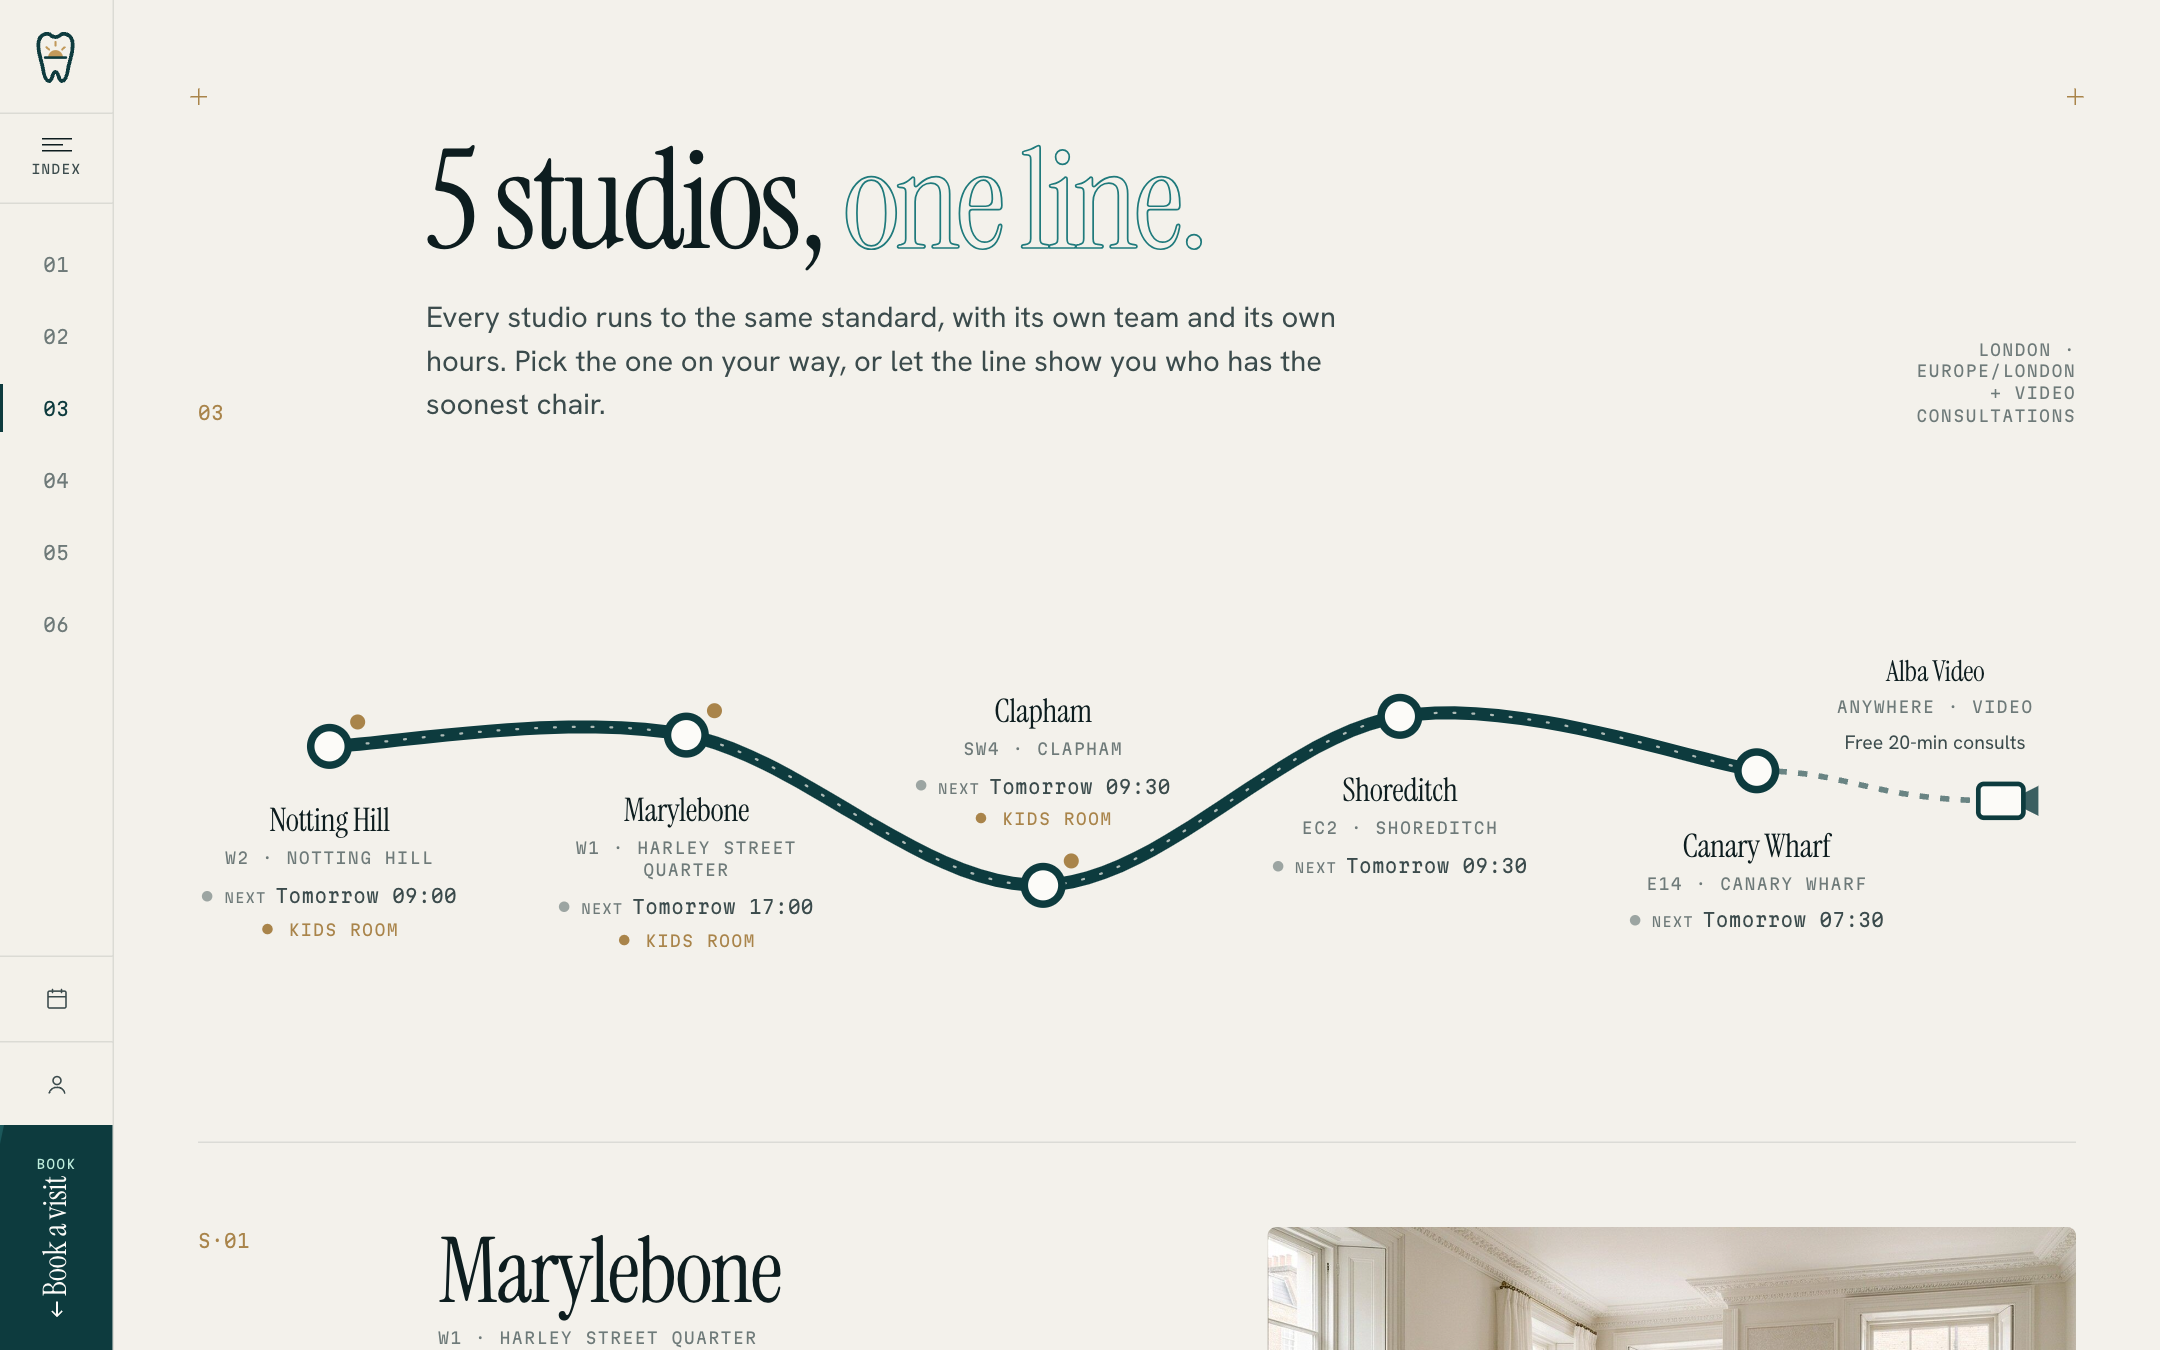
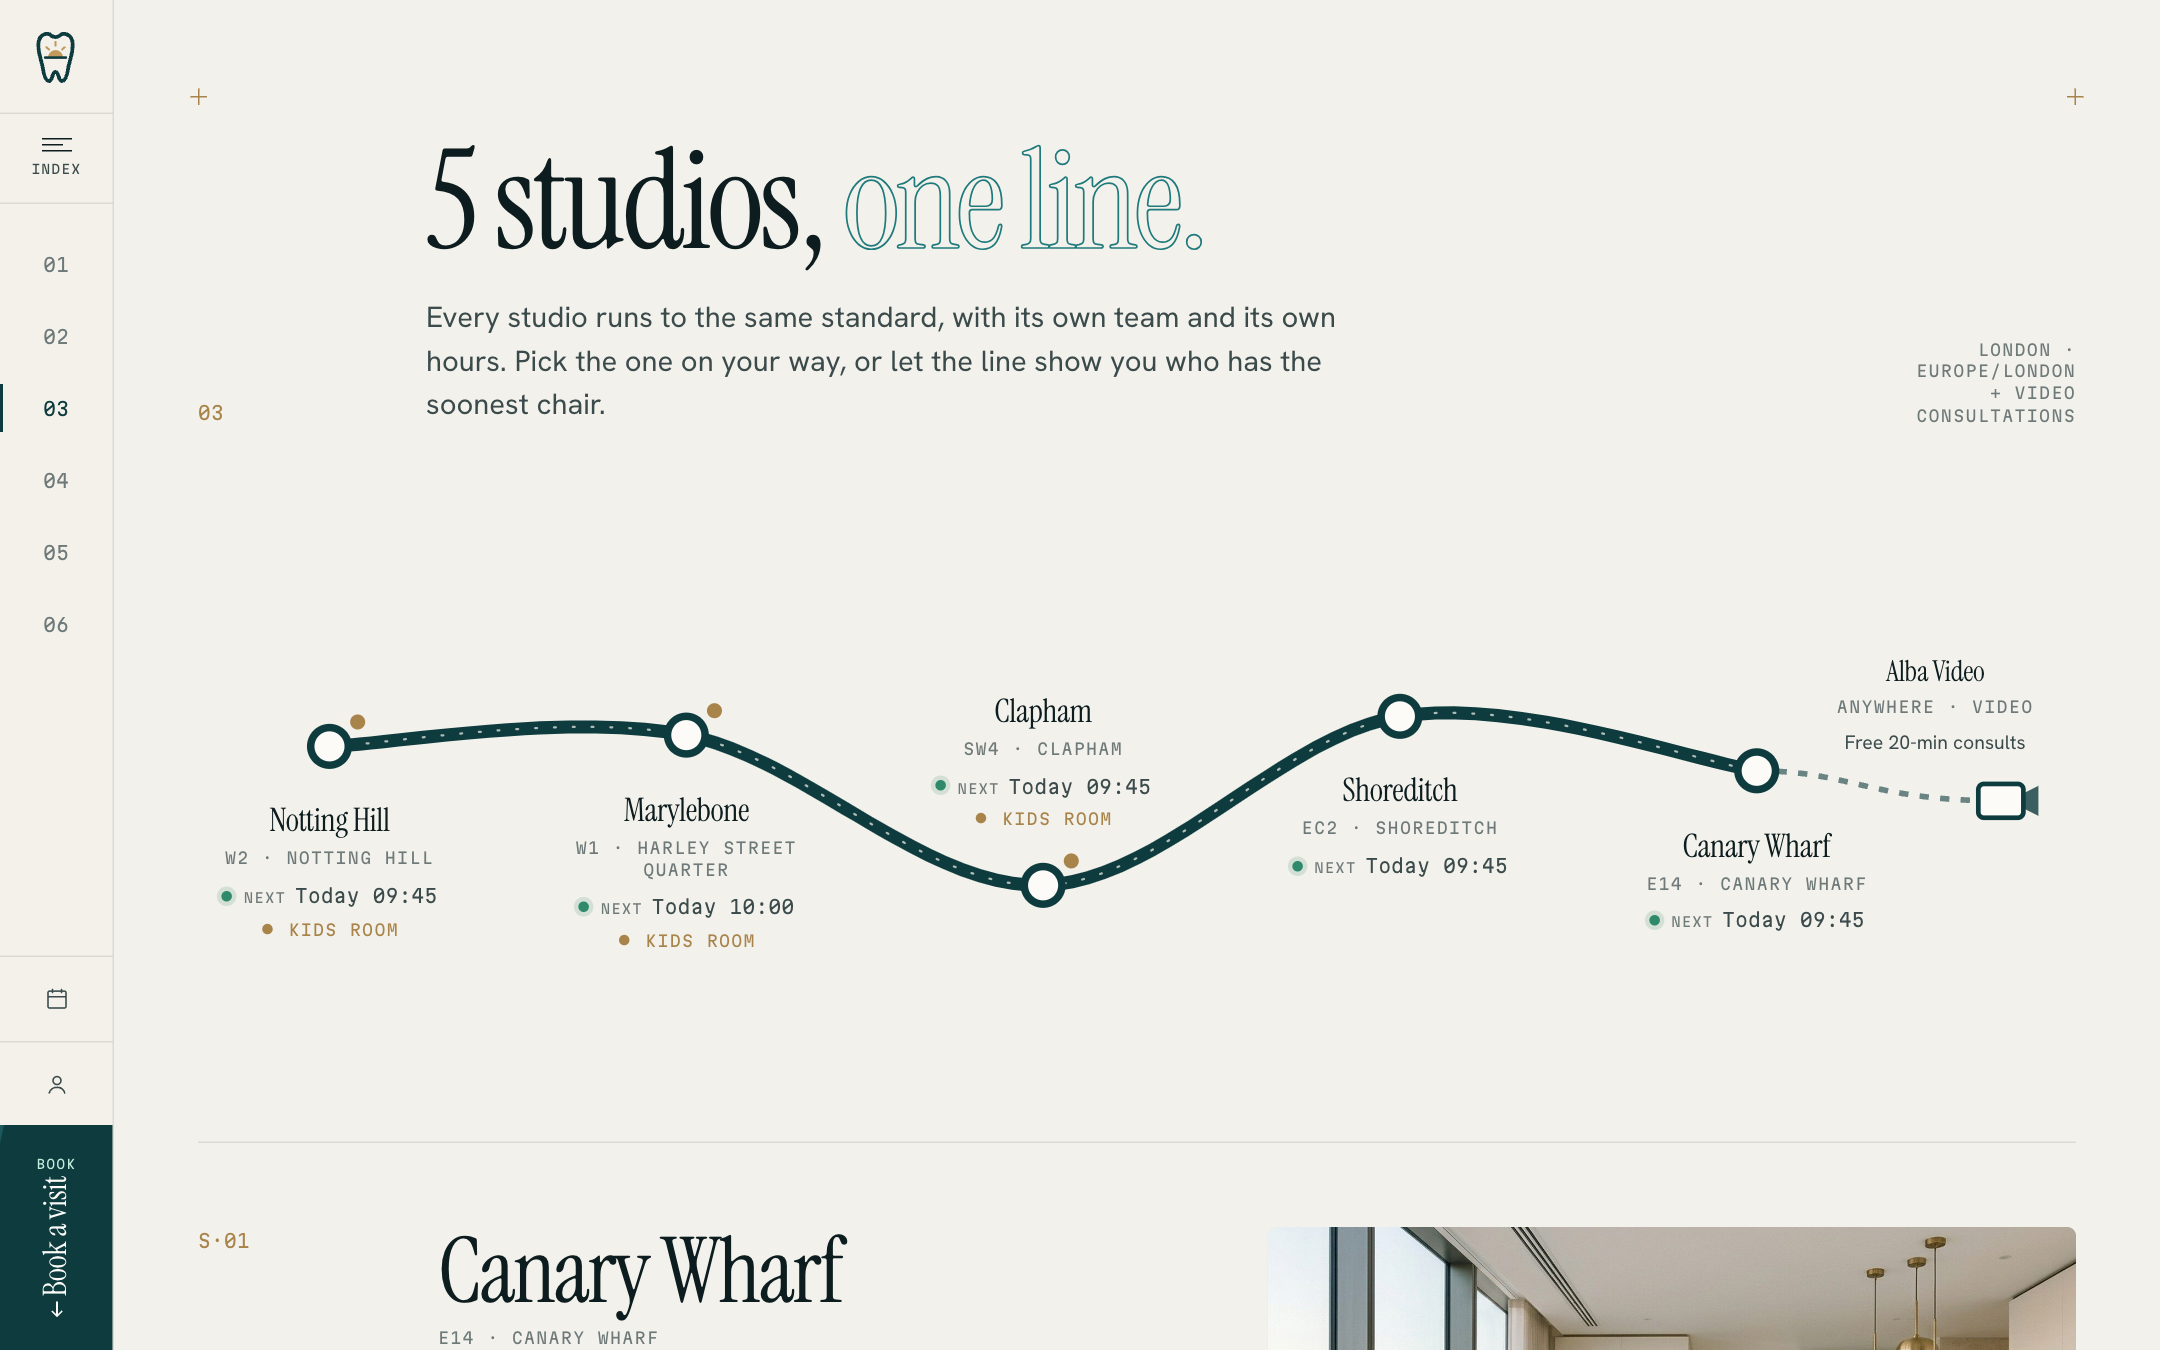
Live-store fixes (visit order, guest patient on the card, quarter-hour starts, option order), screenshots from the real store, cover

diff --git a/hooks/use-dental-booking.ts b/hooks/use-dental-booking.ts
@@ -6,7 +6,8 @@ import { useCart } from '@/contexts/cart-context';
 import { useBookingAddOns } from '@/hooks/use-booking-add-ons';
 import { questionTitle, useCheckoutQuestions } from '@/hooks/use-checkout-questions';
 import { invalidateStudioAvailability, useStudioAvailability } from '@/hooks/use-studio-availability';
-import { CHECKBOX_FALSE, comfortOption, indexIntake, intakeKey, isHandledByComposer, isRequiredFor, isVisible, visitForOption, type AnswerMap, type Comfort, type VisitFor } from '@/lib/intake';
+import { CHECKBOX_FALSE, comfortOption, indexIntake, intakeKey, isHandledByComposer, isRequiredFor, isVisible, keyMapOf, patientOf, visitForOption, type AnswerMap, type Comfort, type VisitFor } from '@/lib/intake';
+import { rememberPatient } from '@/components/confirmation/snapshot';
 import { localDate, nextFree, slotOf, startsByDay, startsOf, type Start } from '@/lib/slots';
 import { siteConfig } from '@/lib/site-config';
 import type { Treatment } from '@/lib/catalog';
@@ -446,6 +447,8 @@ export function useDentalBooking({
 					setError({ message: 'Your visit is held, but the hygienist slot was just taken. You can add a hygiene visit separately.', code: 'other' });
 				}
 			}
+			const patient = patientOf(buildAnswers(), keyMapOf(questions));
+			rememberPatient(itemIds, { name: patient.name, nickname: patient.nickname });
 			setHeld({ itemIds });
 			return true;
 		} catch {
@@ -454,7 +457,7 @@ export function useDentalBooking({
 		} finally {
 			setBooking(false);
 		}
-	}, [treatment, location, selected, finalStaffId, missing.length, booking, held, fieldErrors, postBook, cartId, addOns, buildAnswers, setCart, resetTime, withHygiene, hygiene, hygieneSlot]);
+	}, [treatment, location, selected, finalStaffId, missing.length, booking, held, fieldErrors, postBook, cartId, addOns, buildAnswers, setCart, resetTime, withHygiene, hygiene, hygieneSlot, questions]);
 
 	/** Release the hold and reopen the flow with every choice intact. */
 	const [releasing, setReleasing] = useState(false);

diff --git a/components/confirmation/snapshot.ts b/components/confirmation/snapshot.ts
@@ -22,6 +22,8 @@ export interface SnapshotVisit {
 	from: string;
 	to: string;
 	patientName: string | null;
+	/** What to call a child on the card and the bravery certificate. */
+	nickname?: string | null;
 	addOns: string[];
 }
 
@@ -33,10 +35,39 @@ export interface VisitSnapshot {
 }
 
 const KEY = 'alba:visit-snapshot';
+const PATIENTS_KEY = 'alba:held-patients';
 const MAX_AGE = 6 * 60 * 60 * 1000;
+
+/** Who a held cart item is for. Cart payloads don't carry intake answers, so the planner remembers them. */
+export interface HeldPatient {
+	name: string | null;
+	nickname: string | null;
+}
+
+function readPatients(): Record<string, HeldPatient> {
+	try {
+		const raw = sessionStorage.getItem(PATIENTS_KEY);
+		return raw ? (JSON.parse(raw) as Record<string, HeldPatient>) : {};
+	} catch {
+		return {};
+	}
+}
+
+/** Called by the chair planner when it holds visits, keyed by cart item id. */
+export function rememberPatient(itemIds: string[], patient: HeldPatient): void {
+	if (!patient.name && !patient.nickname) return;
+	try {
+		const all = readPatients();
+		for (const id of itemIds) all[id] = patient;
+		sessionStorage.setItem(PATIENTS_KEY, JSON.stringify(all));
+	} catch {
+		/* private mode: the card falls back to "you" */
+	}
+}
 
 export function snapshotFromCart(items: CartItem[], currency: string | null, total: number): VisitSnapshot {
 	const visits: SnapshotVisit[] = [];
+	const held = readPatients();
 	for (const item of items) {
 		const line = toCartLine(item);
 		const appt = item.appointment;
@@ -55,7 +86,8 @@ export function snapshotFromCart(items: CartItem[], currency: string | null, tot
 			video: line.video,
 			from: line.from,
 			to: line.to,
-			patientName: line.patientName,
+			patientName: line.patientName ?? held[line.id]?.name ?? null,
+			nickname: held[line.id]?.nickname ?? null,
 			addOns: line.addOns.map((a) => a.title),
 		});
 	}

diff --git a/lib/slots.ts b/lib/slots.ts
@@ -1,7 +1,9 @@
 /**
  * Client-safe slot maths over the windows from `/api/availability/studio`.
- * A start is offered every `STEP` minutes from a window's start, while the
- * whole visit still fits inside the window (the same grid the API uses).
+ * A start is offered on every `STEP`-minute mark inside a window, while the
+ * whole visit still fits. Windows can open at odd minutes (today's opens at
+ * "now + minimum notice"), so starts snap to the quarter-hour grid rather than
+ * stepping from the window's first minute.
  */
 
 /** [fromMs, toMs) in UTC. */
@@ -41,7 +43,7 @@ export function startsOf(a: StudioAvailability | null | undefined, staffId: stri
 	for (const [sid, windows] of Object.entries(a.windows)) {
 		if (staffId && sid !== staffId) continue;
 		for (const [from, to] of windows) {
-			for (let t = from; t + dur <= to; t += STEP) {
+			for (let t = Math.ceil(from / STEP) * STEP; t + dur <= to; t += STEP) {
 				if (t < now) continue;
 				const list = byAt.get(t);
 				if (list) list.push(sid);

diff --git a/components/confirmation/thank-you-view.tsx b/components/confirmation/thank-you-view.tsx
@@ -42,10 +42,13 @@ export function ThankYouView({ departments }: { departments: DepartmentIndex }) 
 		const fromOrder = cardsFromOrder(order, departments);
 		const list = fromOrder.length ? fromOrder : hydrated ? cardsFromSnapshot(readSnapshot(), departments) : [];
 		const byId = new Map((record?.visits ?? []).map((v) => [v.id, v]));
-		return list.map((c) => {
-			const v = byId.get(c.id);
-			return v ? { ...c, patientName: v.patient.name, nickname: v.patient.nickname, kids: c.kids || v.patient.visitFor === 'child' } : c;
-		});
+		// Earliest visit first: the card stack, "See you …" and the recall all key off cards[0].
+		return list
+			.map((c) => {
+				const v = byId.get(c.id);
+				return v ? { ...c, patientName: v.patient.name, nickname: v.patient.nickname, kids: c.kids || v.patient.visitFor === 'child' } : c;
+			})
+			.sort((a, b) => a.from - b.from);
 	}, [order, departments, record, hydrated]);
 
 	const loading = isLoading || status === 'loading' || !hydrated;

diff --git a/lib/variant-order.ts b/lib/variant-order.ts
@@ -1,0 +1,23 @@
+/**
+ * Display order for the options of one treatment. The API returns variants in
+ * the order they were created, which can read "Ages 3–6, 13–17, 7–12" or put a
+ * dearer option first. Options that start with a number (age bands, surfaces)
+ * sort numerically; everything else by price, then length.
+ */
+export interface OrderableOption {
+	label: string | null | undefined;
+	price: number;
+	duration: number;
+}
+
+const leadingNumber = (label: string | null | undefined): number | null => {
+	const m = label?.match(/\d+/);
+	return m ? Number(m[0]) : null;
+};
+
+export function compareOptions(a: OrderableOption, b: OrderableOption): number {
+	const na = leadingNumber(a.label);
+	const nb = leadingNumber(b.label);
+	if (na !== null && nb !== null && na !== nb) return na - nb;
+	return a.price - b.price || a.duration - b.duration;
+}

diff --git a/lib/catalog.ts b/lib/catalog.ts
@@ -1,6 +1,7 @@
 import type { ProductCollectionResponse, ProductListItemResponse } from '@opencals/storefront-sdk';
 import { siteConfig, type DepartmentKind } from '@/lib/site-config';
 import type { DepartmentIndex } from '@/lib/clinicians';
+import { compareOptions } from '@/lib/variant-order';
 
 /**
  * The treatment catalogue: every bookable variant and every department
@@ -130,6 +131,7 @@ export function toGroups(treatments: Treatment[]): TreatmentGroup[] {
 		g.variants.push(t);
 		g.fromPrice = Math.min(g.fromPrice, t.price);
 	}
+	for (const g of map.values()) g.variants.sort((a, b) => compareOptions({ label: a.option, price: a.price, duration: a.duration }, { label: b.option, price: b.price, duration: b.duration }));
 	return [...map.values()];
 }
 

diff --git a/lib/kids/kids-data.ts b/lib/kids/kids-data.ts
@@ -1,4 +1,5 @@
 import { cache } from 'react';
+import { compareOptions } from '@/lib/variant-order';
 import { getClinics, getCollection, getProducts, getStoreSettings } from '@/lib/server-data';
 import {
 	DEFAULT_ROOM,
@@ -107,7 +108,7 @@ export const getKidsWorld = cache(async (): Promise<KidsWorld> => {
 		}
 		const options = variants
 			.map((v) => ({ slug: v.slug, label: v.variantTitle ?? '', price: v.price ?? 0, minutes: Math.round((v.duration ?? 0) / 60) }))
-			.sort((a, b) => (order.get(a.slug) ?? 99) - (order.get(b.slug) ?? 99));
+			.sort((a, b) => compareOptions({ ...a, duration: a.minutes }, { ...b, duration: b.minutes }));
 		services.push({
 			...building,
 			key: group.id,

diff --git a/components/confirmation/card-model.ts b/components/confirmation/card-model.ts
@@ -122,7 +122,7 @@ export function cardsFromSnapshot(s: VisitSnapshot | null, departments: Departme
 			address: v.address,
 			onlineLink: null,
 			patientName: v.patientName,
-			nickname: null,
+			nickname: v.nickname ?? null,
 			addOns: v.addOns,
 		}),
 	);

diff --git a/README.md b/README.md
@@ -4,7 +4,7 @@ A production-ready booking website for a multi-location dental practice, with a 
 
 **[View Live Demo →](https://template-alba.vercel.app)**
 
-![Alba Dental: the home page with the porcelain tooth hero and the chart rail](docs/homepage-hero.png)
+![Alba Dental: the home page and the Alba Kids storybook on a laptop and a phone on a limestone desk in a dental studio](docs/cover.png)
 
 Light and precise: porcelain and enamel surfaces, deep lagoon teal, mint light and brass hairlines, set in Instrument Serif with Hanken Grotesk and Martian Mono for the chart annotations. Set in **London** (GBP, `Europe/London`) with five studios (Marylebone, Shoreditch, Notting Hill, Canary Wharf, Clapham) plus video consultations, and 26 clinicians: dentists, hygienists, paediatric dentists, orthodontists, an implant surgeon and an endodontist. And for children, **Alba Kids**: a cut-paper, risograph-printed picture book called *Pip and the Tooth Town adventure*. MIT licensed: clone it, rebrand it, ship it.
 
